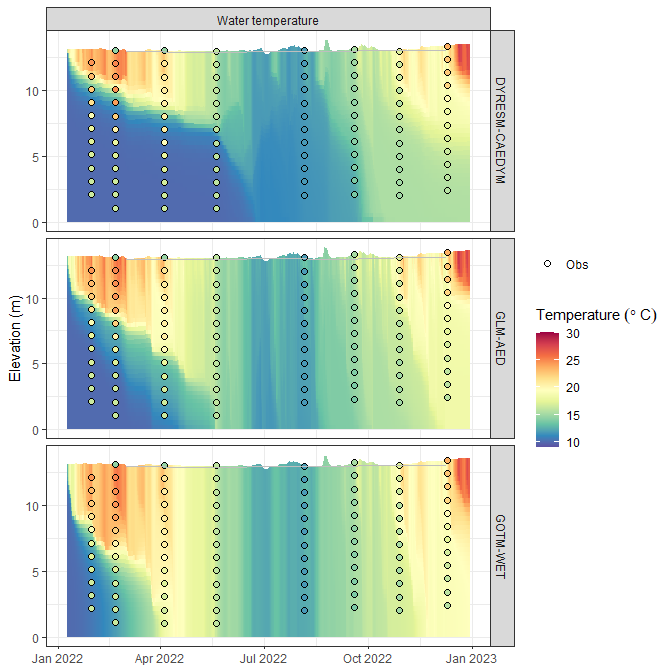
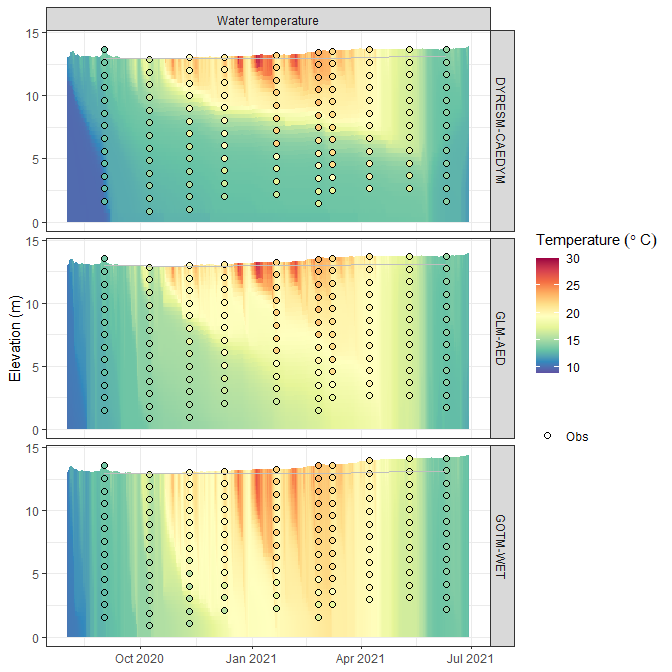
Updated README

diff --git a/README.md b/README.md
@@ -47,29 +47,28 @@ aeme_dir <- system.file("extdata/lake/", package = "AEME")
 file.copy(aeme_dir, tmpdir, recursive = TRUE)
 #> [1] TRUE
 path <- file.path(tmpdir, "lake")
-aeme_data <- yaml_to_aeme(path = path, "aeme.yaml")
-#> Linking to GEOS 3.11.2, GDAL 3.6.2, PROJ 9.2.0; sf_use_s2() is FALSE
+aeme <- yaml_to_aeme(path = path, "aeme.yaml")
+#> Linking to GEOS 3.11.2, GDAL 3.7.2, PROJ 9.3.0; sf_use_s2() is FALSE
 #> Warning in aeme_constructor(lake = yaml$lake, time = yaml$time, configuration = yaml$configuration, : Lake area [152343 m2] is different to the area calculated from the lake
 #> shape [152433.09 m2].
-mod_ctrls <- read.csv(file.path(path, "model_controls.csv"))
-inf_factor = c("dy_cd" = 1, "glm_aed" = 1, "gotm_wet" = 1)
-outf_factor = c("dy_cd" = 1, "glm_aed" = 1, "gotm_wet" = 1)
+model_controls <- get_model_controls(use_bgc = TRUE)
 model <- c("dy_cd", "glm_aed", "gotm_wet")
-aeme_data <- build_ensemble(path = path, aeme_data = aeme_data, model = model,
-                            mod_ctrls = mod_ctrls, inf_factor = inf_factor, 
+aeme <- build_ensemble(path = path, aeme = aeme, model = model,
+                            model_controls = model_controls,
                             ext_elev = 5, use_bgc = TRUE)
-#> Building simulation for Wainamu [2023-11-15 12:29:07.677313]
+#> Building simulation for Wainamu [2024-02-27 00:02:10]
+#> Missing state variables in inflows: PHY_crypt
+#> Added default values for missing variables.
 #> Using observed water level
 #> Missing values in observed water level
-#> Using optimisation function
-#> Calculating outflow with an estimated water balance using lake level,
-#> inflow data (if present) and estimated evaporation rates.
+#> Using constant water level
+#> Correcting water balance using estimated outflows (method = 2).
 #> Calculating lake level using lake depth and a sinisoidal function.
 #> Observed lake level is present. Updating initial lake model depth...
 #> Building DYRESM-CAEDYM for lake wainamu
 #> Copied in DYRESM par file
 #> Writing DYRESM configuration
-#> [1] "TEMPTURE SALINITY DO PO4 DOPL POPL PIP TP NH4 NO3 DONL PONL TN DOCL POCL SiO2 CYANO CHLOR FDIAT TCHLA SSOL1"
+#> [1] "TEMPTURE SALINITY DO PO4 DOPL POPL PIP TP NH4 NO3 DONL PONL TN DOCL POCL SiO2 CYANO CHLOR CRYPT FDIAT TCHLA SSOL1"
 #> Writing DYRESM control file
 #> Downsampling bathymetry
 #> Building GLM3-AED2 model for lake wainamu
@@ -88,16 +87,38 @@ aeme_data <- build_ensemble(path = path, aeme_data = aeme_data, model = model,
 #>    rsi_initial = 1 replaced with 1
 #> PHY_cyano 0.24022 replaced with 0.24022
 #> PHY_green 0.300275 replaced with 0.300275
+#> PHY_crypt  replaced with
 #> PHY_diatom 0.300275 replaced with 0.300275
 #>     ss_initial   = 3,3 replaced with 3,
 #> Building GOTM-WET for lake wainamu
 #> Copied all GOTM configuration files
-aeme_data <- run_aeme(aeme_data = aeme_data, model = model, verbose = FALSE, 
-                      path = path, parallel = TRUE, mod_ctrls = mod_ctrls)
-#> Running models in parallel... [2023-11-15 12:29:10.415701]
-#> Model run complete![2023-11-15 12:31:25.462804]
-#> Reading models in parallel... [2023-11-15 12:31:26.667304]
-#> Model reading complete![2023-11-15 12:31:28.732729]
+#> instances/abiotic_water/initialization/sO2W 13 replaced with 10
+#> instances/abiotic_water/initialization/sPO4W 0.1 replaced with 0.01
+#> instances/abiotic_water/initialization/sPDOMW 0.001 replaced with 0.01
+#> instances/abiotic_water/initialization/sPPOMW 0.001 replaced with 0.01
+#> instances/abiotic_water/initialization/sNH4W 0.05 replaced with 0.02
+#> instances/abiotic_water/initialization/sNO3W 0.5 replaced with 0.015
+#> instances/abiotic_water/initialization/sNDOMW 0.01 replaced with 0.3
+#> instances/abiotic_water/initialization/sNPOMW 0.01 replaced with 0.1
+#> instances/abiotic_water/initialization/sDDOMW 2.5 replaced with 0.5
+#> instances/abiotic_water/initialization/sDPOMW 0.1 replaced with 0.2
+#> instances/abiotic_water/initialization/sSiO2W 3.5 replaced with 1
+#> instances/cyanobacteria/initialization/sDW 0.1 replaced with 0.2
+#> instances/cyanobacteria/initialization/sNW 0.03 replaced with 0.03
+#> instances/cyanobacteria/initialization/sPW 0.003 replaced with 0.0019
+#> instances/greens/initialization/sDW 0.1 replaced with 0.1
+#> instances/greens/initialization/sNW 0.05 replaced with 0.015
+#> instances/greens/initialization/sPW 0.001 replaced with 0.00094
+#> instances/diatoms/initialization/sDW 0.2 replaced with 0.25
+#> instances/diatoms/initialization/sNW 0.05 replaced with 0.038
+#> instances/diatoms/initialization/sPW 0.005 replaced with 0.0024
+#> instances/abiotic_water/initialization/sDIMW 4 replaced with 3
+aeme <- run_aeme(aeme = aeme, model = model, verbose = FALSE, 
+                      path = path, parallel = TRUE, model_controls = model_controls)
+#> Running models in parallel... [2024-02-27 13:02:13]
+#> Model run complete![2024-02-27 13:04:35]
+#> Reading models in parallel... [2024-02-27 13:04:36]
+#> Model reading complete![2024-02-27 13:04:38]
 ```
 
 The model input and output (I/O) is handled as it’s own S4 object of
@@ -106,7 +127,7 @@ functions for this class alongside ensuring integrity and validity to
 it’s structure.
 
 ``` r
-class(aeme_data)
+class(aeme)
 #> [1] "aeme"
 #> attr(,"package")
 #> [1] "AEME"
@@ -116,7 +137,7 @@ This allows for easier handling of the model output data within our
 structure and allows for condensed output to be printed to the console:
 
 ``` r
-aeme_data
+aeme
 #>             AEME 
 #> -------------------------------------------------------------------
 #>   Lake
@@ -124,7 +145,8 @@ aeme_data
 #> Area: 152343 m2; Shape file: Present
 #> -------------------------------------------------------------------
 #>   Time
-#> Start: 2022-01-09 Stop: 2022-12-30 Time step: 3600
+#> Start: 2020-08-01; Stop: 2021-06-30; Time step: 3600
+#>  Spin up (days): GLM: 2; GOTM: 1; DYRESM: 1
 #> -------------------------------------------------------------------
 #>   Configuration
 #>           Physical   |   Biogeochemical
@@ -136,8 +158,8 @@ aeme_data
 #> Lake: Present; Level: Present
 #> -------------------------------------------------------------------
 #>   Input
-#> Inital profile: Present; Inital depth: 13.14m; Hypsograph: Present (n=132);
-#> Meteo: Present; Use longwave: TRUE; Kw: 0.98
+#> Inital profile: Present; Inital depth: 13.07m; Hypsograph: Present (n=132);
+#> Meteo: Present; Use longwave: FALSE; Kw: 1.31
 #> -------------------------------------------------------------------
 #>   Inflows
 #> Data: Present; Scaling factors: DY-CD: 1; GLM-AED: 1; GOTM-WET: 1
@@ -149,7 +171,7 @@ aeme_data
 #> Data: Present; Scaling factors: DY-CD: 1; GLM-AED: 1; GOTM-WET: 1
 #> -------------------------------------------------------------------
 #>   Water balance
-#> Use: obs; Modelled: Absent; Water balance: Present
+#> Method: 2; Use: obs; Modelled: Absent; Water balance: Present
 #> -------------------------------------------------------------------
 #>   Output: 
 #> DY-CD: Present
@@ -160,22 +182,19 @@ aeme_data
 Model data can be visualised easily using the `plot_output()` function
 
 ``` r
-p1 <- plot_output(aeme_data = aeme_data, model = model, var_sim = "HYD_temp", 
-                  level = TRUE, label = TRUE, var_lims = c(9, 30), 
-                  print_plots = FALSE)
+p1 <- plot_output(aeme = aeme, model = model, var_sim = "HYD_temp", 
+                  level = TRUE, var_lims = c(9, 30))
 p1
 #> Warning: Using size for a discrete variable is not advised.
-#> Warning: Removed 80 rows containing missing values (`geom_col()`).
+#> Warning: Removed 240 rows containing missing values (`geom_col()`).
 ```
 
 <img src="man/figures/README-plot_output-HYD_temp-1.png" width="100%" />
 Also, visualising lake level plots.
 
 ``` r
-p2 <- plot_output(aeme_data = aeme_data, model = model,  
-                         var_sim = "LKE_lvlwtr", level = TRUE, label = TRUE,
-                         var_lims = c(9, 30), print_plots = FALSE, 
-                         facet = FALSE)
+p2 <- plot_output(aeme = aeme, model = model, var_sim = "LKE_lvlwtr",
+                  facet = FALSE)
 p2
 ```
 
